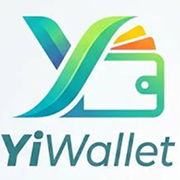
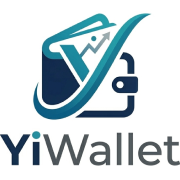
feat: 更新登入頁面圖示，新增應用程式圖示及版本更新

diff --git a/app/(auth)/login/page.tsx b/app/(auth)/login/page.tsx
@@ -2,7 +2,7 @@
 
 import { useActionState } from 'react'
 import Link from 'next/link'
-import { WalletIcon } from 'lucide-react'
+import Image from 'next/image'
 import { login } from '@/app/actions/auth'
 
 export default function LoginPage() {
@@ -12,9 +12,7 @@ export default function LoginPage() {
     <div className="flex min-h-dvh items-center justify-center bg-muted/40 px-4">
       <div className="w-full max-w-sm">
         <div className="mb-8 flex flex-col items-center gap-3">
-          <span className="flex size-14 items-center justify-center rounded-2xl bg-amber-400 text-white shadow-lg shadow-amber-400/30">
-            <WalletIcon className="size-7" strokeWidth={2.5} />
-          </span>
+          <Image src="/icons/logo.png" alt="易記帳" width={120} height={120} className="rounded-2xl shadow-lg" />
           <h1 className="text-2xl font-bold">易記帳</h1>
           <p className="text-sm text-muted-foreground">登入你的帳號</p>
         </div>

diff --git a/app/layout.tsx b/app/layout.tsx
@@ -25,6 +25,7 @@ export const metadata: Metadata = {
   title: "易記帳",
   description: "簡單好用的個人記帳 App",
   applicationName: "易記帳",
+  icons: { icon: '/icons/logo.png', apple: '/icons/logo.png' },
   appleWebApp: {
     capable: true,
     statusBarStyle: "default",

diff --git a/lib/version.ts b/lib/version.ts
@@ -1,6 +1,12 @@
-export const APP_VERSION = 'v1.3'
+export const APP_VERSION = 'v1.4'
 
 export const VERSION_HISTORY: { version: string; changes: string[] }[] = [
+  {
+    version: 'v1.4',
+    changes: [
+      '更新 App 圖示',
+    ],
+  },
   {
     version: 'v1.3',
     changes: [
